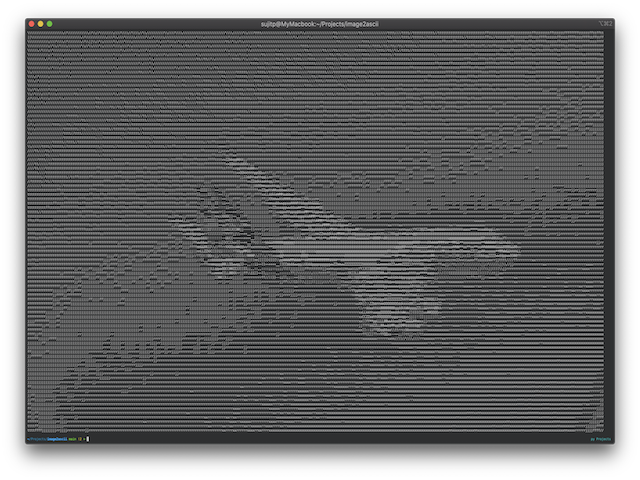
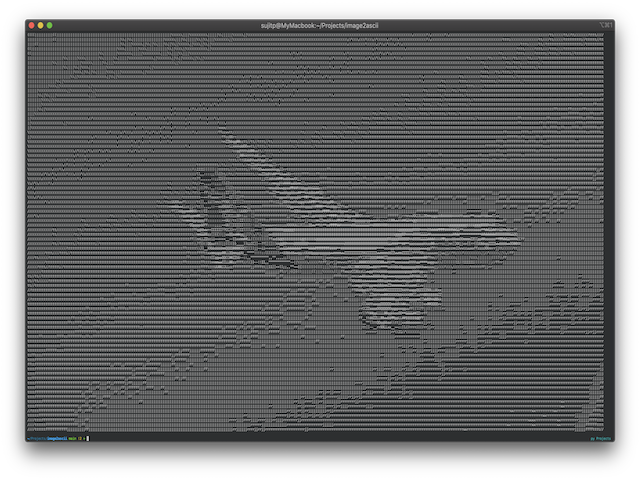
modularized code, changed to brightness type to luminosity

diff --git a/main.py b/main.py
@@ -1,69 +1,108 @@
 from PIL import Image
 
-# Load image using Pillow
-img = Image.open('images/plane.jpg')
-width, height = img.size # 640x480
-width, height = width // 4, height // 4
-img = img.resize((width, height))
-# print('Successfully loaded image!')
-# print('Image size: {} x {}'.format(*img.size))
+# An RGB pixel is a tuple of 3 numbers each in the range [0, 255]
+MAX_PIXEL_VALUE = 255
+# The characters in this string are ordered from thinnest to boldest, which
+# means darkest to brightest for white text on a dark terminal background
+ASCII_CHARS = "`^\",:;Il!i~+_-?][}{1)(|\\/tfjrxnuvczXYUJCLQ0OZmwqpdbkhao*#MW&8%B@$"
+# Now we reverse the ASCII_CHARS string to be lightest to darkest
+# ASCII_CHARS = ASCII_CHARS[::-1]
+# Track the width & height of the image
+width, height = 0, 0
 
-# Load the image's pixel data into a 2D array
-pixels = list(img.getdata())
-pixels = [pixels[i * width:(i + 1) * width] for i in range(height)]
-print('Successfully constructed pixel matrix!')
-print('Pixel matrix size: {} x {}'.format(len(pixels[0]), len(pixels)))
-print('First 10 cells in matrix:\n', pixels[0][:10])
+def load_image(filename='images/plane.jpg') -> Image:
+    img = Image.open(filename)
+    global width
+    global height
+    width, height = img.size  # plane.jpg is 640 x 480
+    # Reduce image size 16x to ensure fit on terminal screen
+    width, height = width // 4, height // 4
+    img = img.resize((width, height))
+    # print('Successfully loaded image!')
+    # print('Image size: {} x {}'.format(*img.size))
+    return img
 
-# Now convert the RGB tuple (pixel) matrix into a pixel brightness matrix
-def get_pixel_brightness(rgb_tuple):
+
+def get_pixel_matrix(img):
+    # width, height = img.size
+    pixels = list(img.getdata())
+    pixels = [pixels[i * width:(i + 1) * width] for i in range(height)]
+    # print('Successfully constructed pixel matrix!')
+    # print('Pixel matrix size: {} x {}'.format(len(pixels[0]), len(pixels)))
+    # print('First 10 cells in matrix:\n', pixels[0][:10])
+    return pixels
+
+
+def get_pixel_brightness_matrix(pixel_matrix):
     """
-    This method converts an RGB tuple of the pixel array into a single
-    brightness number. There are numerous ways to do this, all resulting in a
+    Convert each RGB tuple of a pixel matrix into a brightness number matrix.
+
+    Parameters:
+            pixel_matrix (list): A 2D matrix of RGB tuples
+
+    Returns:
+            pixel_brightness_matrix (list): A 2D matrix of brightness values
+
+    There are numerous ways to convert RGB to brightness, all generating a
     slightly different style of transformed image. Here are 3 examples:
-    Average:
-        Average the R, G and B values
-        => (R + G + B) / 3
-    Lightness:
-        Average the maximum and minimum values out of R, G and B
-        => max(R, G, B) + min(R, G, B) / 2
-    Luminosity:
-        Take a weighted average of the R, G and B values to account for
-        human perception
-        => 0.21 R + 0.72 G + 0.07 B
+    Average (average the R, G and B values):
+        -> (R + G + B) / 3
+    Lightness (average the maximum and minimum values out of R, G and B):
+        -> max(R, G, B) + min(R, G, B) / 2
+    Luminosity (take weighted average of RGB to account for human perception):
+        ->  0.2126 * R + 0.7152 * G + 0.0722 * B
 
     More information can be found here:
     https://stackoverflow.com/questions/596216/formula-to-determine-brightness-of-rgb-color
     """
-    # use the Average method for now
-    r, g, b = rgb_tuple
-    return (r + g + b) / 3
-    #return (max(r, g, b) + min(r, g, b)) / 2
-    #return 0.2126 * r + 0.7152 * g + 0.0722 * b
+    def get_pixel_brightness(rgb_tuple):
+        # Use Luminosity
+        r, g, b = rgb_tuple
+        # return (r + g + b) / 3
+        # return (max(r, g, b) + min(r, g, b)) / 2
+        return 0.2126 * r + 0.7152 * g + 0.0722 * b
 
-pixel_brightness_matrix = [list(map(get_pixel_brightness, row)) for row in pixels]
-# print('Successfully constructed pixel brightness matrix. First row:')
-# print(pixel_brightness_matrix[0])
+    pixel_brightness_matrix = [list(map(get_pixel_brightness, row)) for row in pixel_matrix]
+    # print('Successfully constructed pixel brightness matrix. First row:')
+    # print(pixel_brightness_matrix[0])
+    return pixel_brightness_matrix
 
-# Now convert the pixel brightness matrix to an ascii character matrix
-ascii_matrix = [[None] * width for _ in range(height)]
-# The characters in this string are ordered from thinnest to boldest, which
-# means darkest to brightest for white text on a dark terminal background
-ascii_chars = "`^\",:;Il!i~+_-?][}{1)(|\\/tfjrxnuvczXYUJCLQ0OZmwqpdbkhao*#MW&8%B@$"
 
-for x in range(height):
-    for y in range(width):
-        idx = round((pixel_brightness_matrix[x][y] / 255) * len(ascii_chars)) - 1
-        idx = 0 if idx < 0 else idx
-        ascii_matrix[x][y] = ascii_chars[idx]
-# print('Successfully constructed ascii character matrix. First row:')
-# print(ascii_matrix[0])
+def get_ascii_matrix(pixel_brightness_matrix):
+    ascii_matrix = [[None] * width for _ in range(height)]
 
-# Print ascii art to the terminal
-for x in range(height):
-    for y in range(width):
-        # Print the char 3 times (or 2x) since the height of terminal characters
-        # is 3 times the width. Doing 2x here to reasonably fit the screen.
-        char = ascii_matrix[x][y]
-        print(char+char, sep='', end='')
-    print()
+    for x in range(height):
+        for y in range(width):
+            idx = round((pixel_brightness_matrix[x][y] / MAX_PIXEL_VALUE) * len(ASCII_CHARS))
+            idx -= 1 if idx >= 1 else 0
+            ascii_matrix[x][y] = ASCII_CHARS[idx]
+    # print('Successfully constructed ascii character matrix. First row:')
+    # print(ascii_matrix[0])
+    return ascii_matrix
+
+
+def print_ascii_art(ascii_matrix):
+    for x in range(height):
+        for y in range(width):
+            # Print the char 3x times since the height of terminal characters
+            # is 3 times the width. Doing 2x here to reasonably fit the screen.
+            char = ascii_matrix[x][y]
+            print(char+char, sep='', end='')
+        print()
+
+
+def main():
+    # Load image using Pillow
+    img = load_image('images/plane.jpg')
+    # Load the image's pixel data into a 2D array
+    pixel_matrix = get_pixel_matrix(img)
+    # Now convert the RGB tuple (pixel) matrix into a pixel brightness matrix
+    pixel_brightness_matrix = get_pixel_brightness_matrix(pixel_matrix)
+    # Now convert the pixel brightness matrix to an ascii character matrix
+    ascii_matrix = get_ascii_matrix(pixel_brightness_matrix)
+    # Print ascii art to the terminal
+    print_ascii_art(ascii_matrix)
+
+
+if __name__ == '__main__':
+    main()

diff --git a/README.md b/README.md
@@ -19,7 +19,7 @@ Options:
   -f        Fit ASCII output to terminal window (default True)
   -c        Colorful ASCII output (default False)
   -i string
-            Filename of image to be converted into ASCII art (default 'docs/images/plane.jpg')
+            Filename of image to be converted into ASCII art (default 'images/plane.jpg')
 ```
 
 ## Example Output
